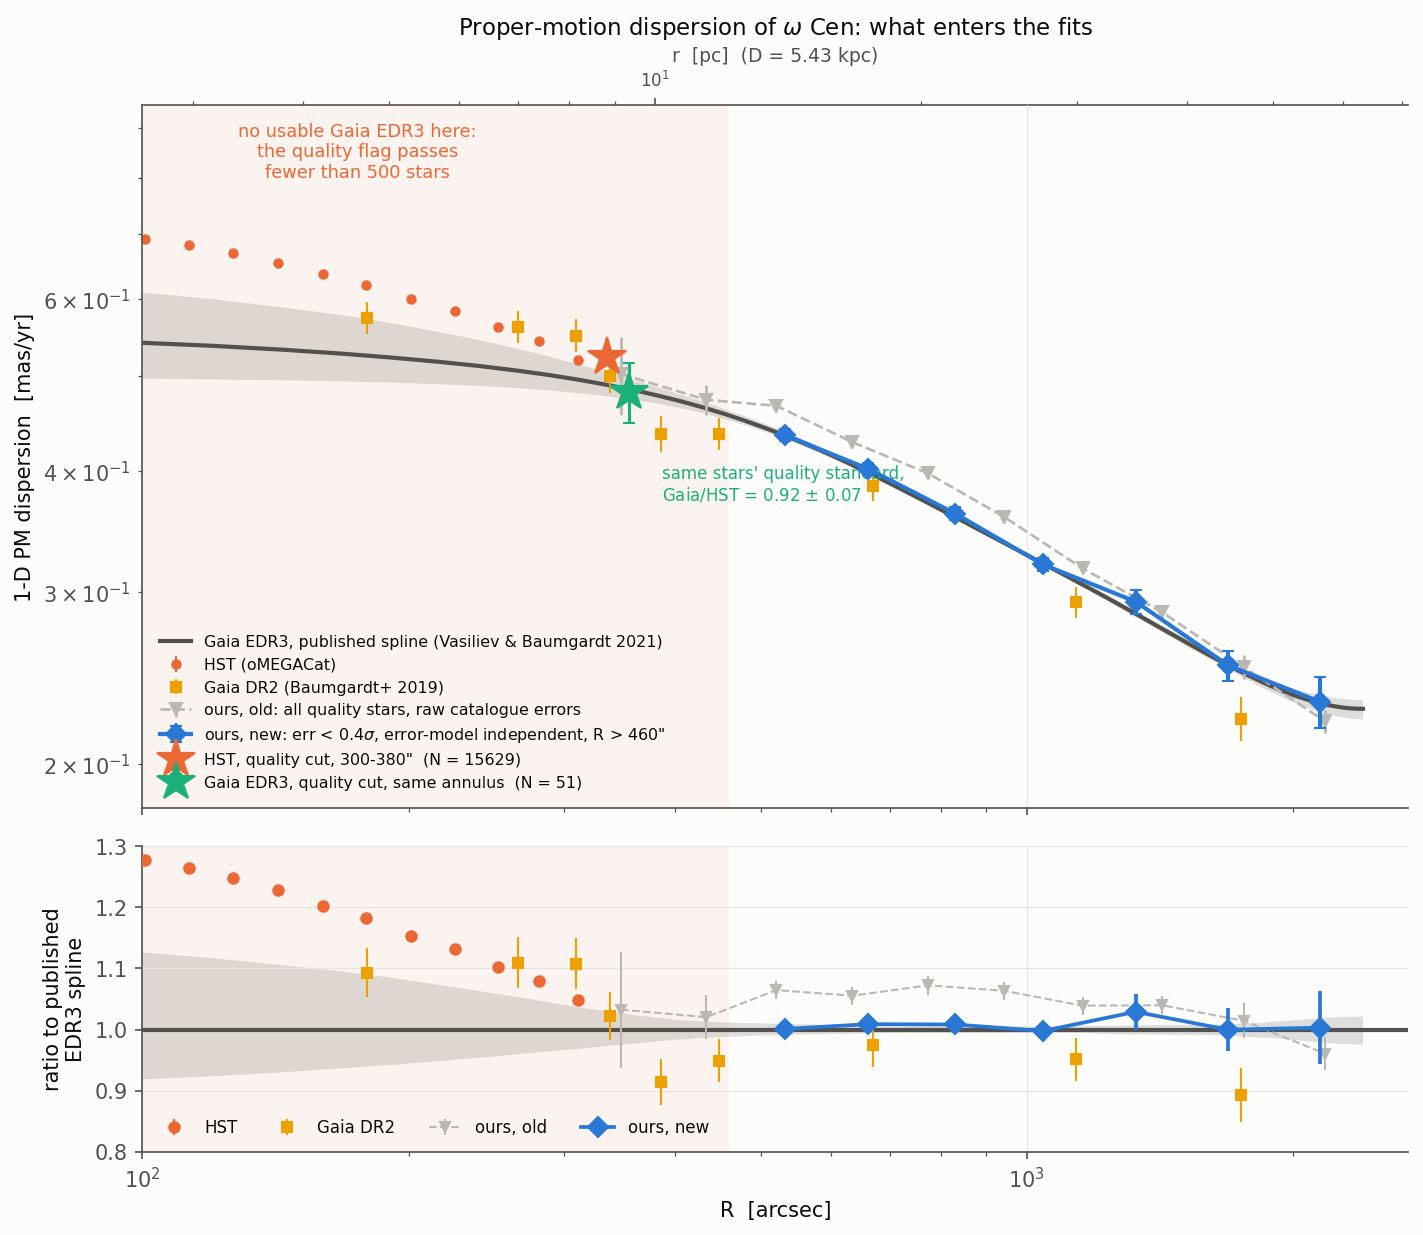
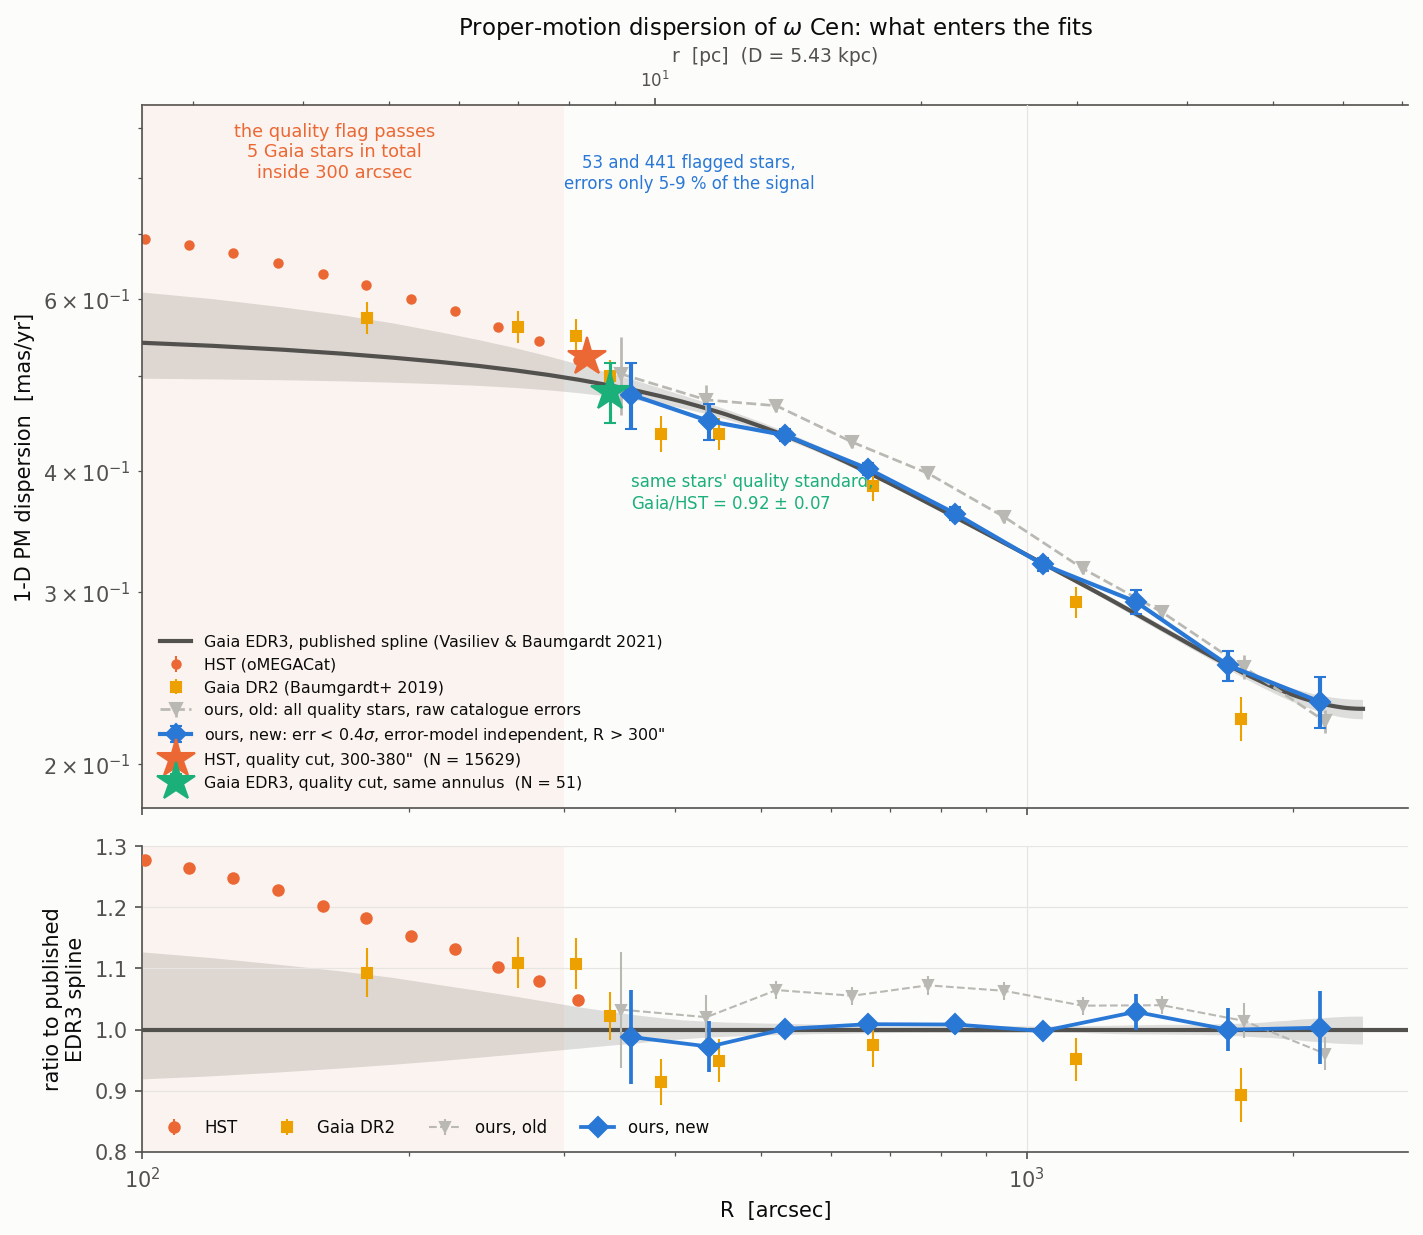
Extend the rebuilt EDR3 profile inwards to 300 arcsec: those stars are the cleanest we have
The 460 arcsec inner edge discarded real data. Inside 300 arcsec the quality flag
passes 5 stars in total, so nothing is lost there, but 300-460 arcsec holds 494
flagged stars (328 in the low-noise subset) with errors of 0.025-0.044 mas/yr
against a dispersion near 0.47. That is a signal-to-error ratio of 11-19, the best
anywhere in the Gaia sample, and the error-model systematic on the two new bins is
0.02 and 0.15 per cent against 0.1-0.4 per cent elsewhere.

They also fill the gap between HST's last point at 311 arcsec and the bulk of the
Gaia sample, the range where the old dataset step appeared. The 356 arcsec point
gives 0.479 +- 0.037 against HST's 0.524 +- 0.002, a ratio of 0.91 +- 0.07, which
independently reproduces the instrument comparison.

Profile now has 9 points from 300 arcsec; the likelihood has 127. The plot's
shading and caption made the same error and are corrected. Both fits stopped and
relaunched on the corrected dataset.

diff --git a/src/ocen_dm/plotting/constraints.py b/src/ocen_dm/plotting/constraints.py
@@ -1115,7 +1115,7 @@ def plot_pm_datasets(path: Path | str = "plots/pm_datasets_edr3_rebuild.png",
     a1.fill_between(rp[rp > 0], lo_b[rp > 0], hi_b[rp > 0], color=style.INK_SECONDARY, alpha=0.18, lw=0)
     a1.plot(rp[rp > 0], sp[rp > 0], color=style.INK_SECONDARY, lw=2,
             label="Gaia EDR3, published spline (Vasiliev & Baumgardt 2021)")
-    a1.axvspan(0.5, 460, color=style.SERIES[1], alpha=0.06, lw=0)
+    a1.axvspan(0.5, 300, color=style.SERIES[1], alpha=0.06, lw=0)
     a1.errorbar(hst.r, hst.value, yerr=[hst.err_lo, hst.err_hi], fmt="o", ms=4,
                 color=style.SERIES[1], lw=1, label="HST (oMEGACat)")
     a1.errorbar(dr2.r, dr2.value, yerr=[dr2.err_lo, dr2.err_hi], fmt="s", ms=5,
@@ -1124,19 +1124,21 @@ def plot_pm_datasets(path: Path | str = "plots/pm_datasets_edr3_rebuild.png",
                 color=style.COLOR_FIELD, lw=1.3, label="ours, old: all quality stars, raw catalogue errors")
     a1.errorbar(new["r_median"], new["sigma_pm"], yerr=new["sigma_pm_err"], fmt="D-", ms=7,
                 color=style.SERIES[0], lw=2, capsize=3, zorder=5,
-                label="ours, new: err < 0.4$\\sigma$, error-model independent, R > 460\"")
+                label="ours, new: err < 0.4$\\sigma$, error-model independent, R > 300\"")
     row_h = ov[ov["sample"] == "HST, high-quality astrometry"][0]
     row_g = ov[ov["sample"] == "Gaia, quality flag"][0]
-    a1.errorbar([335.0], [row_h["sigma"]], yerr=[row_h["sigma_err"]], fmt="*", ms=19,
+    a1.errorbar([318.0], [row_h["sigma"]], yerr=[row_h["sigma_err"]], fmt="*", ms=19,
                 color=style.SERIES[1], zorder=6, label="HST, quality cut, 300-380\"  (N = %d)" % row_h["n_stars"])
-    a1.errorbar([355.0], [row_g["sigma"]], yerr=[row_g["sigma_err"]], fmt="*", ms=19,
+    a1.errorbar([338.0], [row_g["sigma"]], yerr=[row_g["sigma_err"]], fmt="*", ms=19,
                 color=style.SERIES[2], zorder=6, capsize=3,
                 label="Gaia EDR3, quality cut, same annulus  (N = %d)" % row_g["n_stars"])
     a1.annotate("same stars' quality standard,\nGaia/HST = %.2f $\\pm$ %.2f" % (row_g["ratio"], row_g["ratio_err"]),
-                (355.0, row_g["sigma"]), textcoords="offset points", xytext=(16, -52), fontsize=8,
+                (338.0, row_g["sigma"]), textcoords="offset points", xytext=(10, -56), fontsize=8,
                 color=style.SERIES[2])
-    a1.text(175, 0.80, "no usable Gaia EDR3 here:\nthe quality flag passes\nfewer than 500 stars",
+    a1.text(165, 0.80, "the quality flag passes\n5 Gaia stars in total\ninside 300 arcsec",
             fontsize=8.5, color=style.SERIES[1], ha="center")
+    a1.annotate("53 and 441 flagged stars,\nerrors only 5-9 % of the signal",
+                (415.0, 0.78), fontsize=8, color=style.SERIES[0], ha="center")
     a1.set_xscale("log"); a1.set_yscale("log")
     a1.set_ylabel("1-D PM dispersion  [mas/yr]")
     a1.set_ylim(0.18, 0.95)
@@ -1159,7 +1161,7 @@ def plot_pm_datasets(path: Path | str = "plots/pm_datasets_edr3_rebuild.png",
         y, ye = ratio(np.asarray(r_, float), v_, e_)
         a2.errorbar(r_, y, yerr=ye, fmt=fmt, ms=5 if fmt[0] != "D" else 7, color=col,
                     lw=1.8 if fmt[0] == "D" else 1.0, label=lab, zorder=5 if fmt[0] == "D" else 3)
-    a2.axvspan(0.5, 460, color=style.SERIES[1], alpha=0.06, lw=0)
+    a2.axvspan(0.5, 300, color=style.SERIES[1], alpha=0.06, lw=0)
     a2.set_xscale("log"); a2.set_xlabel("R  [arcsec]")
     a2.set_ylabel("ratio to published\nEDR3 spline")
     a2.set_ylim(0.80, 1.30); a2.set_xlim(100, 2700)

diff --git a/src/ocen_dm/kinematics/outer_gaia.py b/src/ocen_dm/kinematics/outer_gaia.py
@@ -16,8 +16,12 @@ right, so this profile avoids depending on one:
 * the value quoted is the **midpoint** of the raw-error and inflated-error fits, and **half
   their separation is carried as a systematic** added in quadrature to the statistical error.
   The magnitude test shows the truth lies between the two;
-* **inside 460 arcsec nothing is measured**: the quality flag leaves too few stars, and HST
-  covers that range with astrometry the two instruments agree on to 8 +- 7 per cent;
+* **the inner edge is 300 arcsec**, where the quality flag first leaves anything at all: it
+  passes 5 stars inside 300, then 53 in 300-380 and 441 in 380-460. Those are few but they
+  are not nothing, and they are the *cleanest* stars in the whole Gaia sample -- errors of
+  0.025-0.044 mas/yr against a dispersion near 0.47, a ratio of 5-9 per cent, so the error
+  model is irrelevant there by a wide margin. They also fill the gap between HST's last
+  point at 311 arcsec and the bulk of the Gaia sample;
 * contamination is the two-dimensional empirical field template, and the fitted mean radial
   and tangential motions absorb rotation, which is returned as ``streaming2`` so the Jeans
   model can be compared with the full second moment.
@@ -38,9 +42,10 @@ from .vb2021_replication import error_inflation, published_profile
 __all__ = ["PRODUCT", "R_MIN_ARCSEC", "DEFAULT_EDGES", "build_edr3_profile", "load_edr3_profile"]
 
 PRODUCT = "ocen_pm_dispersion_edr3_ours"
-#: inside this radius the quality-flagged Gaia sample is too thin to measure anything
-R_MIN_ARCSEC = 460.0
-DEFAULT_EDGES = np.geomspace(R_MIN_ARCSEC, 2400.0, 8)
+#: inside this radius the quality flag passes 5 stars in total: nothing to measure
+R_MIN_ARCSEC = 300.0
+#: two narrow bins carry the sparse but very precise 300-460 arcsec stars, then log spacing
+DEFAULT_EDGES = np.concatenate([[R_MIN_ARCSEC, 380.0], np.geomspace(460.0, 2400.0, 8)])
 QUALITY_BIT = 2
 
 
@@ -72,7 +77,7 @@ def build_edr3_profile(edges: np.ndarray | None = None, err_max_frac: float = 0.
     rows = []
     for lo, hi in zip(edges[:-1], edges[1:]):
         m = keep & (base.r_arcsec >= lo) & (base.r_arcsec < hi)
-        if m.sum() < 30:
+        if m.sum() < 25:
             continue
         r_pc = base.r_arcsec[m] * distance_kpc * 1e3 / 206264.806
         sd = depth_dispersion(tracer, r_pc, float(np.hypot(*base.mu_sys)), distance_kpc)

diff --git a/tests/test_outer_gaia.py b/tests/test_outer_gaia.py
@@ -12,11 +12,17 @@ pytestmark = pytest.mark.skipif(not _HAS, reason="product not built")
 
 
 def test_starts_where_gaia_becomes_usable():
+    """300 arcsec: the quality flag passes 5 stars inside it, 53 then 441 just outside."""
     from ocen_dm.kinematics.outer_gaia import R_MIN_ARCSEC, load_edr3_profile
     t = load_edr3_profile()
     assert t["r_lower"].min() >= R_MIN_ARCSEC
-    assert R_MIN_ARCSEC >= 460.0, "inside this the quality flag leaves too few stars"
-    assert len(t) >= 6 and np.all(t["n_stars"] > 500)
+    assert R_MIN_ARCSEC == 300.0
+    assert len(t) >= 8 and np.all(t["n_stars"] >= 25)
+    # the two sparse inner bins are the most error-model-independent of all: bright stars
+    inner = t["r_median"] < 460
+    assert inner.sum() == 2
+    assert np.all(np.asarray(t["sigma_sys"])[inner] < 0.001)
+    assert np.all(np.asarray(t["median_g"])[inner] < 16.0)
 
 
 def test_error_model_barely_moves_it():
@@ -44,7 +50,7 @@ def test_registered_and_excludes_the_published_spline():
     from ocen_dm.kinematics.likelihood import KinematicData, load_profile
     p = load_profile("gaia_edr3_ours")
     assert p.instrument == "GaiaEDR3" and p.kind == "pmc"
-    assert p.r.min() > 460 and p.streaming2 is not None
+    assert p.r.min() > 300 and p.streaming2 is not None
     with pytest.raises(ValueError):
         KinematicData.load(["gaia_edr3_ours", "gaia_edr3_pm"])
 

diff --git a/JOURNAL.md b/JOURNAL.md
@@ -2503,3 +2503,47 @@ reference runs took 8158 s and 14251 s, not the hour I quoted to the user.
 
 Gaia DR2 was left untouched, although four of its nine points also sit inside 380 arcsec and
 are open to the same objection. That was not part of the agreed scope.
+
+### Correction: 300-460 arcsec is usable, and I had thrown it away
+
+The user: "you say 'no usable data here' but then quote less than 500 stars. 500 stars is a
+lot!!!" Correct, and the label was conflating two different regions. Counts:
+
+| annulus | in the EDR3 catalogue | passing the quality flag | flagged + err < 0.4 sigma | median error |
+|---|---|---|---|---|
+| 100-200" | 2528 | 0 | 0 | -- |
+| 200-300" | 5171 | 5 | 5 | 0.024 |
+| 300-340" | 3169 | 17 | 17 | 0.026 |
+| 340-380" | 3719 | 36 | 35 | 0.025 |
+| 380-420" | 4659 | 116 | 80 | 0.032 |
+| 420-460" | 5743 | 325 | 196 | 0.044 |
+| 460-520" | 9971 | 1249 | 581 | 0.090 |
+
+Inside 300 arcsec there really is nothing: five stars. But 300-460 arcsec holds 494 flagged
+stars, 328 of them in the low-noise subset, and those are the **cleanest stars in the entire
+Gaia sample** -- errors of 0.025 to 0.044 mas/yr against a dispersion near 0.47, a ratio of
+5 to 9 per cent. Where the rest of the profile has to argue about error models, here the
+error is negligible by a wide margin. They also fill the gap between HST's last point at 311
+arcsec and the bulk of the Gaia sample, which is exactly the range where the old step between
+datasets appeared.
+
+The inner edge is now **300 arcsec**, with two narrow bins carrying that range:
+
+| r (arcsec) | N | sigma | stat | sys | median G |
+|---|---|---|---|---|---|
+| 356 | 52 | 0.4789 | 0.0373 | 0.0001 | 13.9 |
+| 437 | 276 | 0.4497 | 0.0191 | 0.0007 | 15.1 |
+
+The error-model systematic on these is 0.02 and 0.15 per cent, ten times smaller than
+anywhere else in the profile. The 356 arcsec point also reproduces the instrument test
+independently: 0.479 +- 0.037 against HST's 0.524 +- 0.002 in the same range is a ratio of
+0.91 +- 0.07, matching the 0.92 +- 0.07 found from the annulus comparison.
+
+The profile now has nine points from 300 to 2400 arcsec and the likelihood 127. Both fits
+were stopped about half an hour in and relaunched on the corrected dataset. The plot's
+shading and annotation were wrong in the same way and are fixed.
+
+**Lesson for the record:** "too few stars to be worth using" was asserted from a count
+without checking the precision those stars carry. The sparse bins turned out to be the most
+reliable in the profile, because star count and measurement quality run in opposite
+directions here -- the flag keeps only the brightest stars where crowding is worst.
